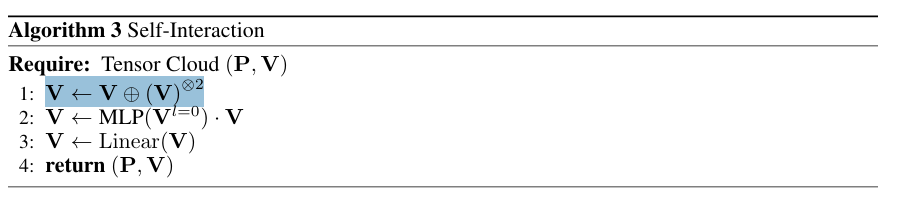
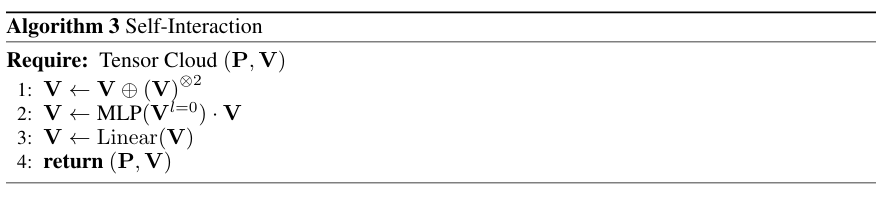
first drafts

Changed region(s): [[0.0, 0.0303, 1.0, 0.6061], [0.0, 0.8788, 1.0, 0.9394], [0.0, 0.6364, 0.2128, 0.8485]]

diff --git a/trainer.py b/trainer.py
@@ -97,32 +97,42 @@ class EquiJumpTrainer():
         return (P_tau, V_tau), (P_z_tau, V_z_tau), (I_vel_P, I_vel_V), tau
     
     def loss_fn(self, params, key, batch):
-        """
-        batch: dict containing 'X_init' and 'X_end' 
-        Each X is a tuple (P, V)
-        """
-        X_init = batch['X_init']
-        X_end = batch['X_end']
+        X_init = batch['X_init'] # Xt in paper
+        X_end = batch['X_end']   # Xt+1 in paper
+        R = batch['residues']    # Protein sequence R
         
-        # 1. Get the interpolated state and targets
+        # 1. Interpolate
         X_tau, z_tau, I_vel_target, tau = self.linear_interpolate(
             key, X_init, X_end, self.cosine_gamma_schedule
         )
         
-        #  Forward pass through your drift models
-        
-        # Predicting Drift for P and V
-        # Assuming your modules are stored in a way that we can call them:
-        # e.g., self.V_drift.apply(params['V_drift'], None, graph, X_tau)
-        
-        pred_I_vel_P = self.P_drift.apply(params['P_drift'], X_tau, tau)
-        pred_I_vel_V = self.V_drift.apply(params['V_drift'], X_tau, tau)
+        #  Conditioner: fcond(R, Xt)
+        # Note: Independent of tau for efficiency
+        X_tilde = self.conditioning.apply(params['conditioning'], R, X_init)
 
-        # 3. Compute MSE Loss
-        loss_P = jnp.mean(jnp.square(pred_I_vel_P - I_vel_target[0]))
-        loss_V = jnp.mean(jnp.square(pred_I_vel_V - I_vel_target[1]))
+        # 3. Predict Headers: take (X_tilde, X_tau, tau)
+        # Drift headers b_hat
+        b_V = self.V_drift.apply(params['V_drift'], X_tilde, X_tau, tau)
+        b_P = self.P_drift.apply(params['P_drift'], X_tilde, X_tau, tau)
         
-        return loss_P + loss_V
+        # Noise headers eta_hat
+        eta_V = self.V_noise.apply(params['V_noise'], X_tilde, X_tau, tau)
+        eta_P = self.P_noise.apply(params['P_noise'], X_tilde, X_tau, tau)
+
+        # 4. Compute Loss per Algorithm 1, Line 9
+        # Objective: 0.5 * ||b||^2 - b · TargetVel + 0.5 * ||eta||^2 - eta · Z
+        
+        # Drift Loss (Vector dot products summed over nodes)
+        # TargetVel is (I_vel_P, I_vel_V)
+        loss_drift_P = 0.5 * jnp.mean(jnp.sum(b_P**2, axis=-1)) - jnp.mean(jnp.sum(b_P * I_vel_target[0], axis=-1))
+        loss_drift_V = 0.5 * jnp.mean(jnp.sum(b_V**2, axis=(-1, -2))) - jnp.mean(jnp.sum(b_V * I_vel_target[1], axis=(-1, -2)))
+        
+        # Noise Loss
+        # z_tau is (P_z_tau, V_z_tau)
+        loss_noise_P = 0.5 * jnp.mean(jnp.sum(eta_P**2, axis=-1)) - jnp.mean(jnp.sum(eta_P * z_tau[0], axis=-1))
+        loss_noise_V = 0.5 * jnp.mean(jnp.sum(eta_V**2, axis=(-1, -2))) - jnp.mean(jnp.sum(eta_V * z_tau[1], axis=(-1, -2)))
+
+        return loss_drift_P + loss_drift_V + loss_noise_P + loss_noise_V
     
     @jax.jit
     def gradient_step(self, params, opt_state, key, batch):

diff --git a/Readme.md b/Readme.md
@@ -51,17 +51,29 @@ Step 2: Building the NN modules
 
 Three mechanisms need to be implemented.
 
-The Self-Interaction Mechanism (updates the tensor cloud by performing tensor-products with itself) 
+The Self-Interaction Mechanism (updates the tensor cloud of each residual independently by performing tensor-products with its own features) 
 <p align="center">
   <img src="images/computing/SelfInteraction_pseudocode.png" alt="SelfInteraction Pseudocode" height="300">
-  <img src="images/computing/SelfInteraction.png" alt="SelfInteraction Code" height="300">
 </p>
 the Spatial Convolution (essentially message passing between residual representations to update the i-th residual)
 <p align="center">
   <img src="images/computing/SpatialConvolution_pseudocode.png" alt="SpatialConvolution Pseudocode" height="300">
-  <img src="images/computing/SpatialConvolution.png" alt="SpatialConvolution Code" height="300">
 </p>
-the full model, combines Self-Interaction with Spatial Convolutions to output n l1 representations for each residual.
+the full model, combines Self-Interaction with Spatial Convolutions to outputs the target irrep arrays for each residual (node).
+<p align="center">
+  <img src="images/computing/EquiJumpDeepNetwork_pseudocode.png" alt="SpatialConvolution Pseudocode" height="300">
+</p>
+This full network will be the backbone for the training. It receives a tensor-cloud as input and outputs a tensor-cloud.
+The irreps of each node can be specified independently. 
+
+This enables the implementation of a specific information flow in which one computes
+1: latent geometric features, conditioned on a scalar field of one-hot encodings related to the the residual label (i.e. the residual field) and the tensor cloud at time t initialized with V_ij as relative distances from the C_alpha atom
+
+2: The output features can be added to the tensor cloud at time tau, which is obtained by stochastic interpolation. Additionally, a scalar field representing the time tau is added. This is the input tensor cloud to the following four networks, each tasked with the approximation of the position and feature drift and noise respectively.
+
+<p align="center">
+  <img src="images/computing/EquiJump_full.png" alt="SpatialConvolution Pseudocode" height="300">>
+</p>
 
 Step 3: 
 
